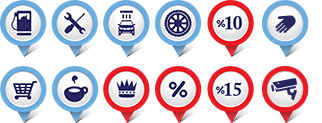
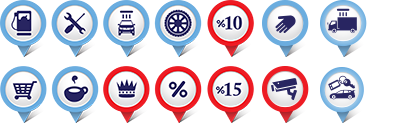
new widgets

diff --git a/app/models/widget.rb b/app/models/widget.rb
@@ -15,6 +15,8 @@ class Widget
       new(name: 'Магазин', type: :store, clip_rect: {offset: {x:0,y:66}, dim: dim}),
       new(name: 'Кафе', type: :cafe, clip_rect: {offset: {x:51,y:66}, dim: dim}),
       new(name: 'Предложение', type: :proposal, clip_rect: {offset: {x:154,y:66}, dim: dim}),
+      new(name: 'Мойка грузовых автомобилей', type: :freight, clip_rect: {offset: {x:320,y:0}, dim: dim}),
+      new(name: 'Аренда (прокат) автомобилей', type: :rent_a_car, clip_rect: {offset: {x:320,y:66}, dim: dim}),
     ]
       # repair
       # discount_10
